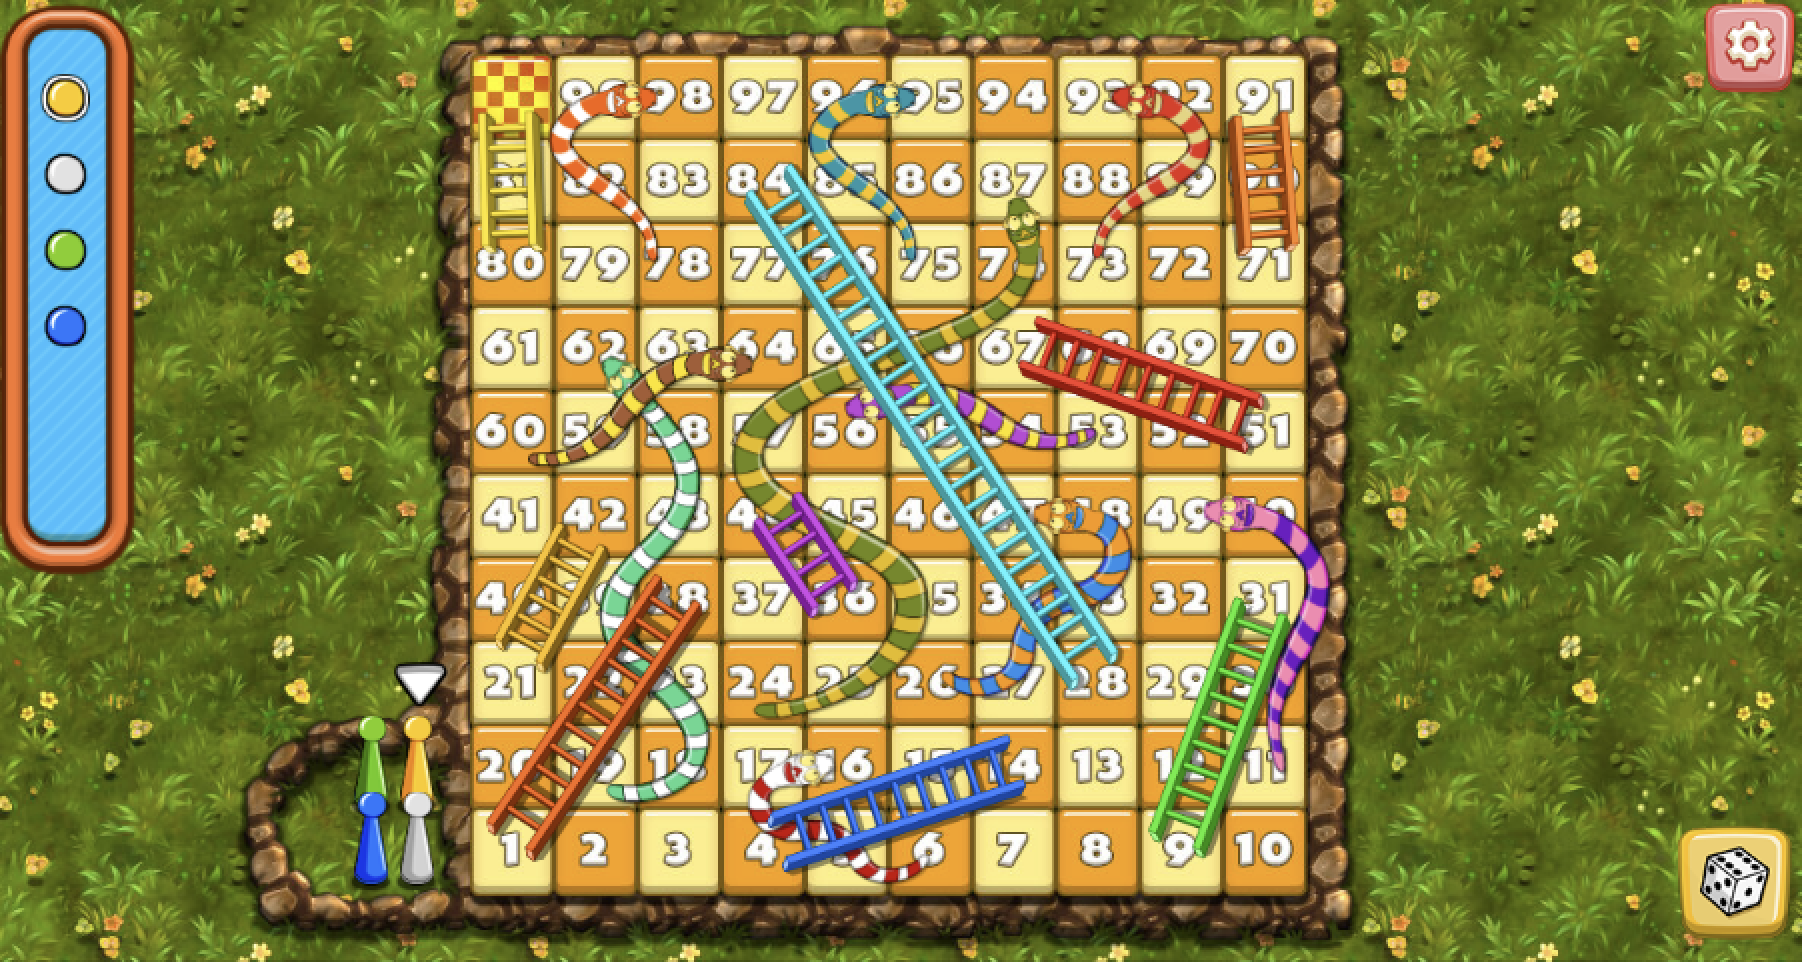
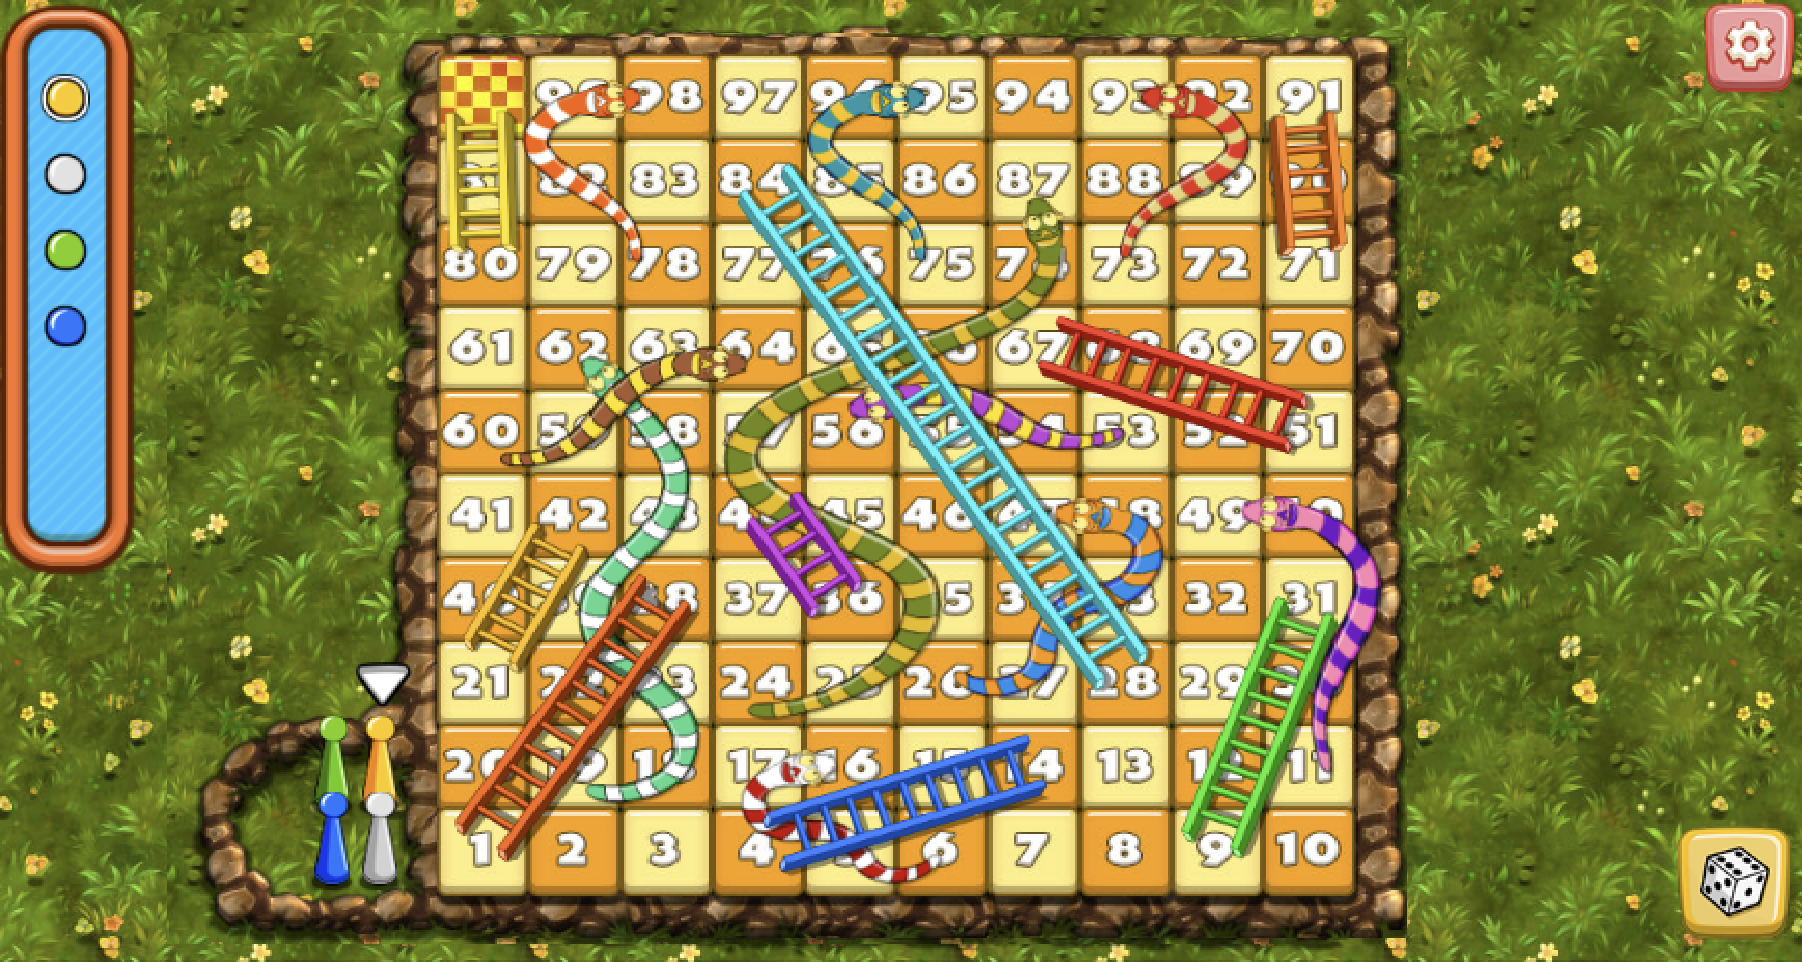
Added altered game board to client

diff --git a/client.py b/client.py
@@ -31,8 +31,12 @@ pygame.init()
 window = pygame.display.set_mode((win_width, win_height))
 pygame.display.set_caption("Snakes and Ladders")
 
-bg = pygame.Surface((win_width, win_height))
-bg.fill((255, 255, 255))
+bg = pygame.image.load('BoardImage.png')
+bg = pygame.transform.scale(bg, (win_width, win_height))
+
+
+#bg = pygame.Surface((win_width, win_height))
+#bg.fill((255, 255, 255))
 
 red = pygame.transform.scale(
     pygame.image.load('assets/Player_red.png'), (14, 14))
@@ -208,6 +212,9 @@ class DiceButton(Button):
 
         window.blit(dice_image, self.rect.topleft)
 
+        if self.clickable:
+            pygame.draw.rect(window, (255, 255, 0), self.rect, 2)   #highlights dice to show clickable
+
     def roll(self):
         if self.clickable:
             roll_result = random.randint(1, 6)
@@ -355,6 +362,7 @@ if __name__ == "__main__":
                 else:
                     moving_player = None
                     if turn_current == client_id:
+
                         dice_button.set_clickable(True)
                     else:
                         dice_button.set_clickable(False)
